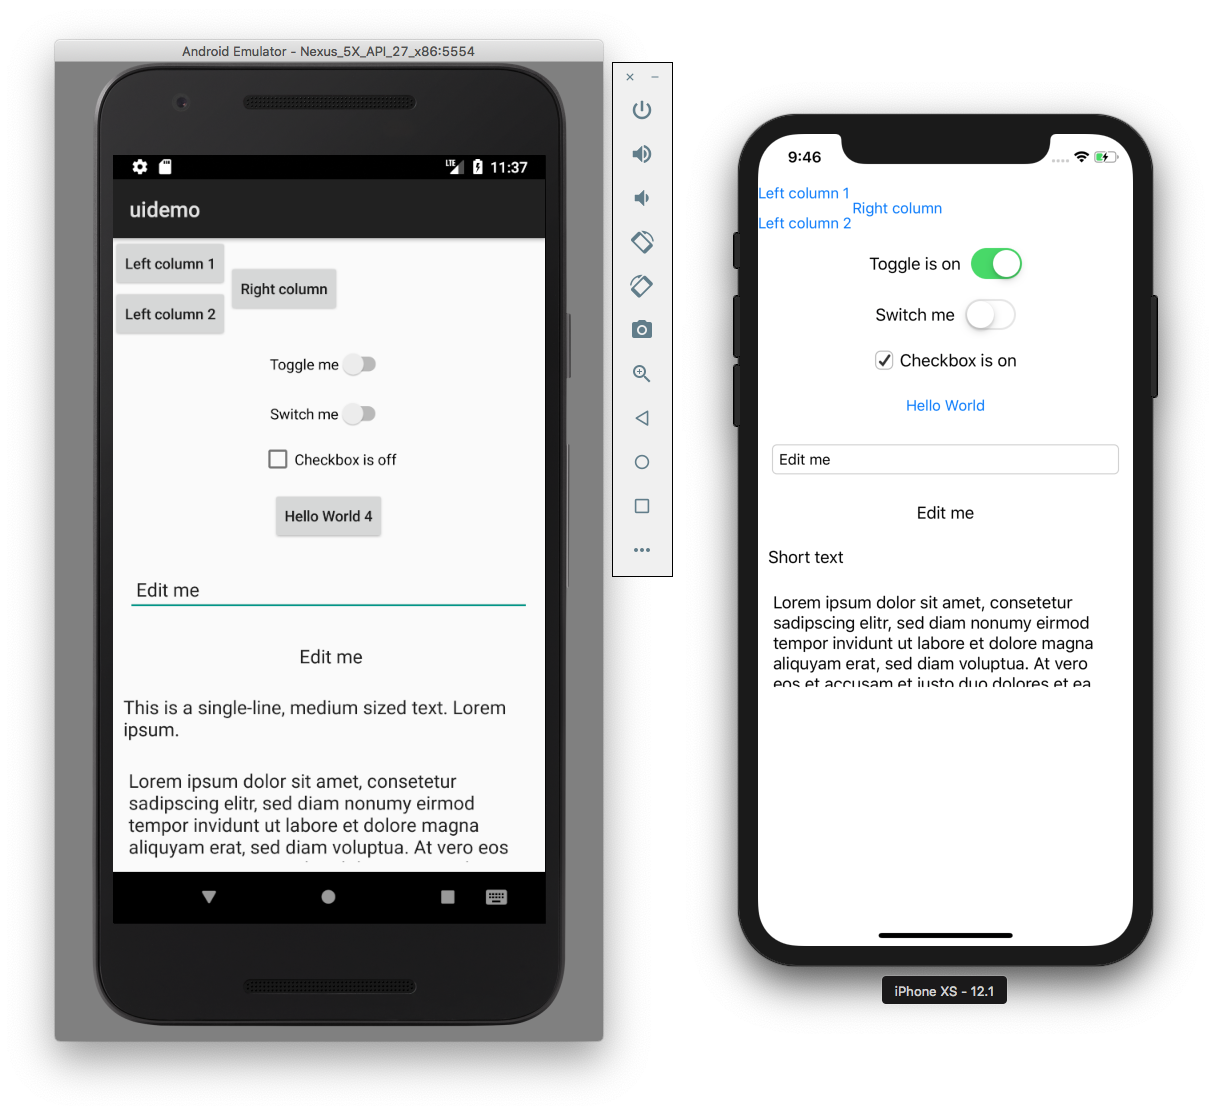
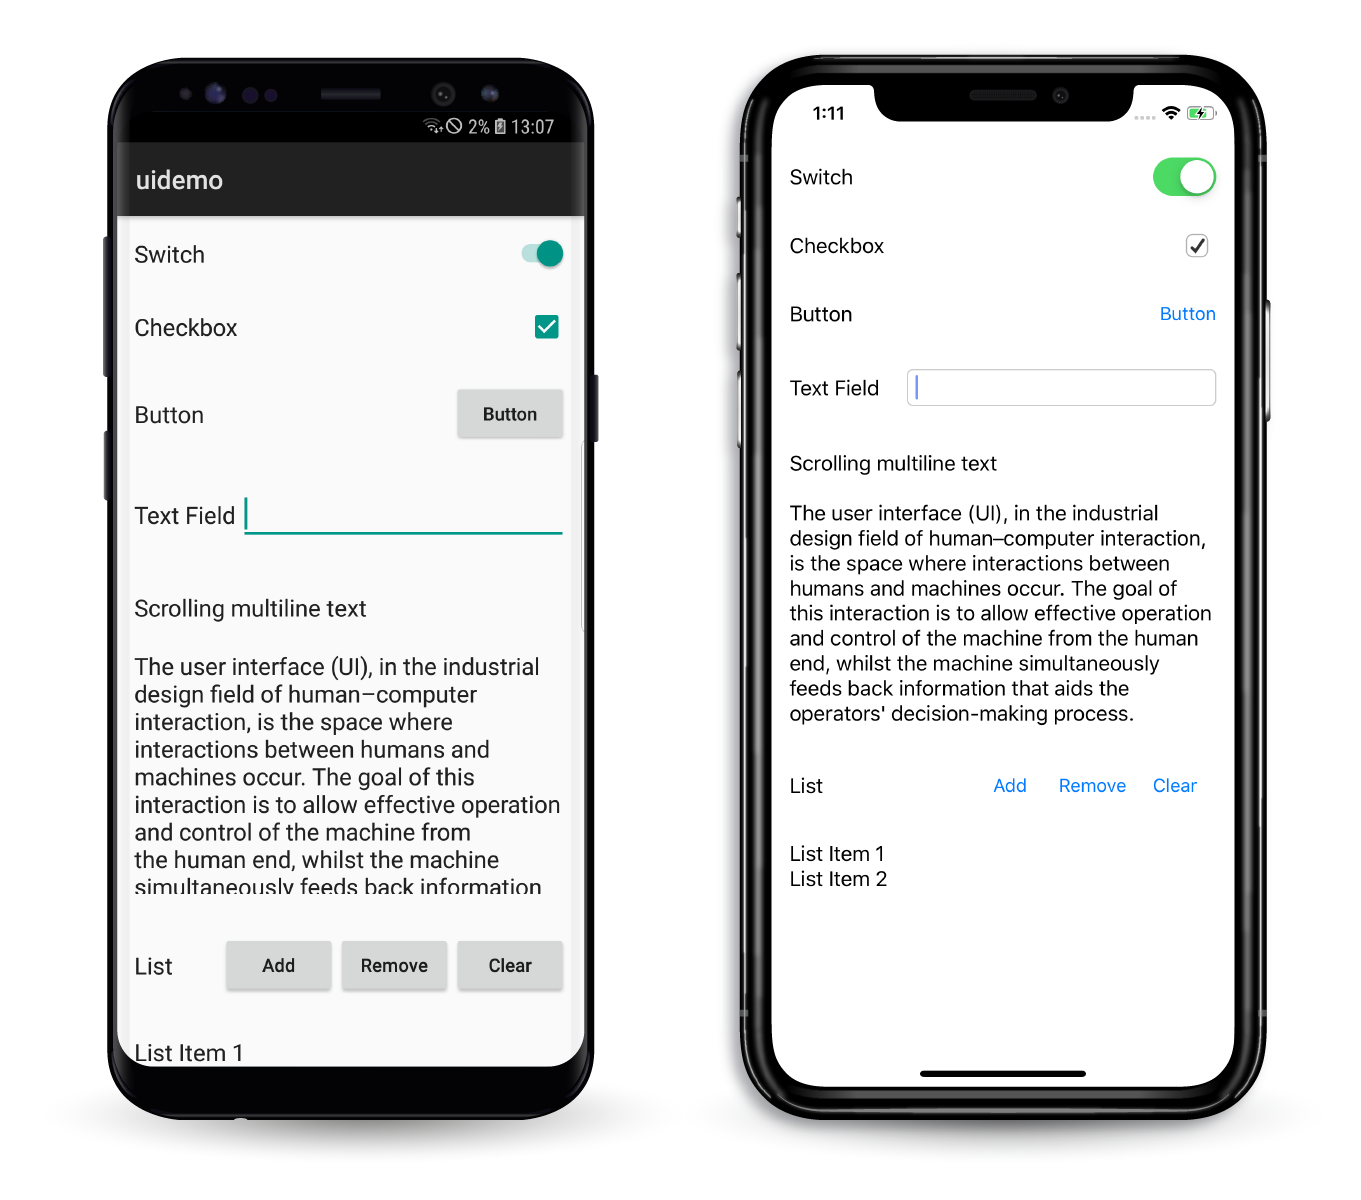
README: Final hero image (#139)
BDN-346/DESIGN-228: Final hero image

diff --git a/examples/uidemo/src/hello.cpp b/examples/uidemo/src/hello.cpp
@@ -107,7 +107,7 @@ class MainViewController : public Base
 
         auto listColumn = newObj<ColumnView>();
 
-        String demoEntries[] = {"List", "Demo"};
+        String demoEntries[] = {"List Item 1", "List Item 2"};
 
         for (auto entry : demoEntries) {
             auto newEntry = newObj<TextView>();
@@ -150,7 +150,7 @@ class MainViewController : public Base
         buttonRow->addChildView(removeButton);
         buttonRow->addChildView(clearButton);
 
-        addControlWithHeading("Mutable list", buttonRow, mainColumn, true);
+        addControlWithHeading("List", buttonRow, mainColumn, true);
         mainColumn->addChildView(listColumn);
 
         auto mainScrollView = newObj<ScrollView>();

diff --git a/README.md b/README.md
@@ -1,4 +1,4 @@
-# Boden Cross-Platform Framework
+# Boden Cross-platform Framework
 
 Rock solid and truly native C++ cross-platform framework for Android and iOS development
 
@@ -7,11 +7,10 @@ Rock solid and truly native C++ cross-platform framework for Android and iOS dev
 * **Native widgets**: Instead of drawing widgets that look nearly identical to the platform's design, Boden uses native OEM widgets ensuring that your app will always have a truly native look and feel.
 * **Fast**: Boden is written in modern C++11 to make development easy and apps fast and battery-friendly.
 * **Open**: Boden is an open framework and welcomes contributions and feedback from the community. We want you to shape its development so Boden can meet your requirements.
-* **Independent**: We are an independent development shop and we created Boden for independent developers. No big tech involved!
 
 ## Setup
 
-You can use macOS to build both iOS and Android apps. Windows and Linux can be used to build Android only. This guide will help you set up your system for developing Boden apps.
+You can use macOS to build both iOS and Android apps. Windows and Linux can be used to build Android apps only. This guide will help you set up your system for developing Boden apps.
 
 Which platform do you want to set up for development?
 
